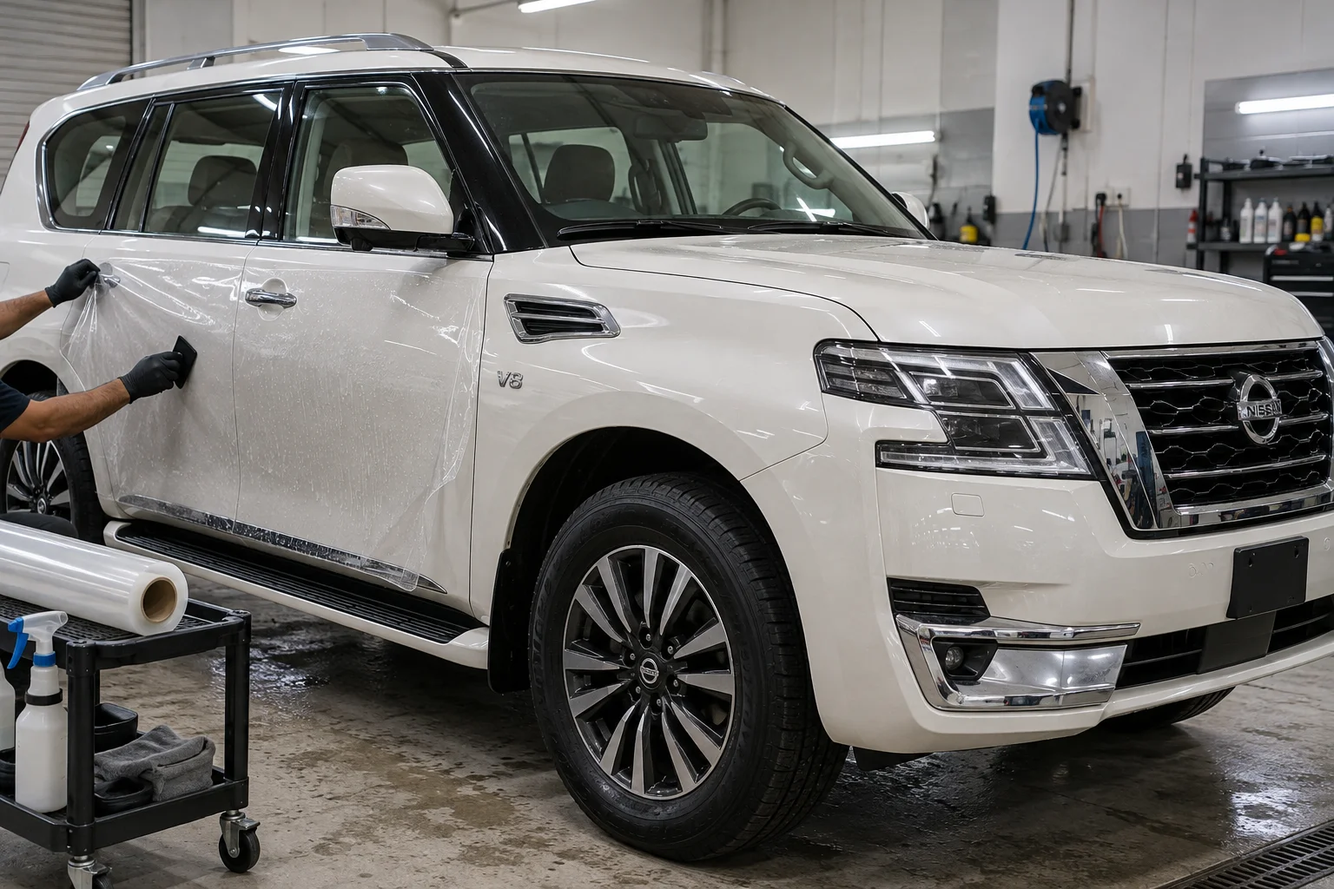
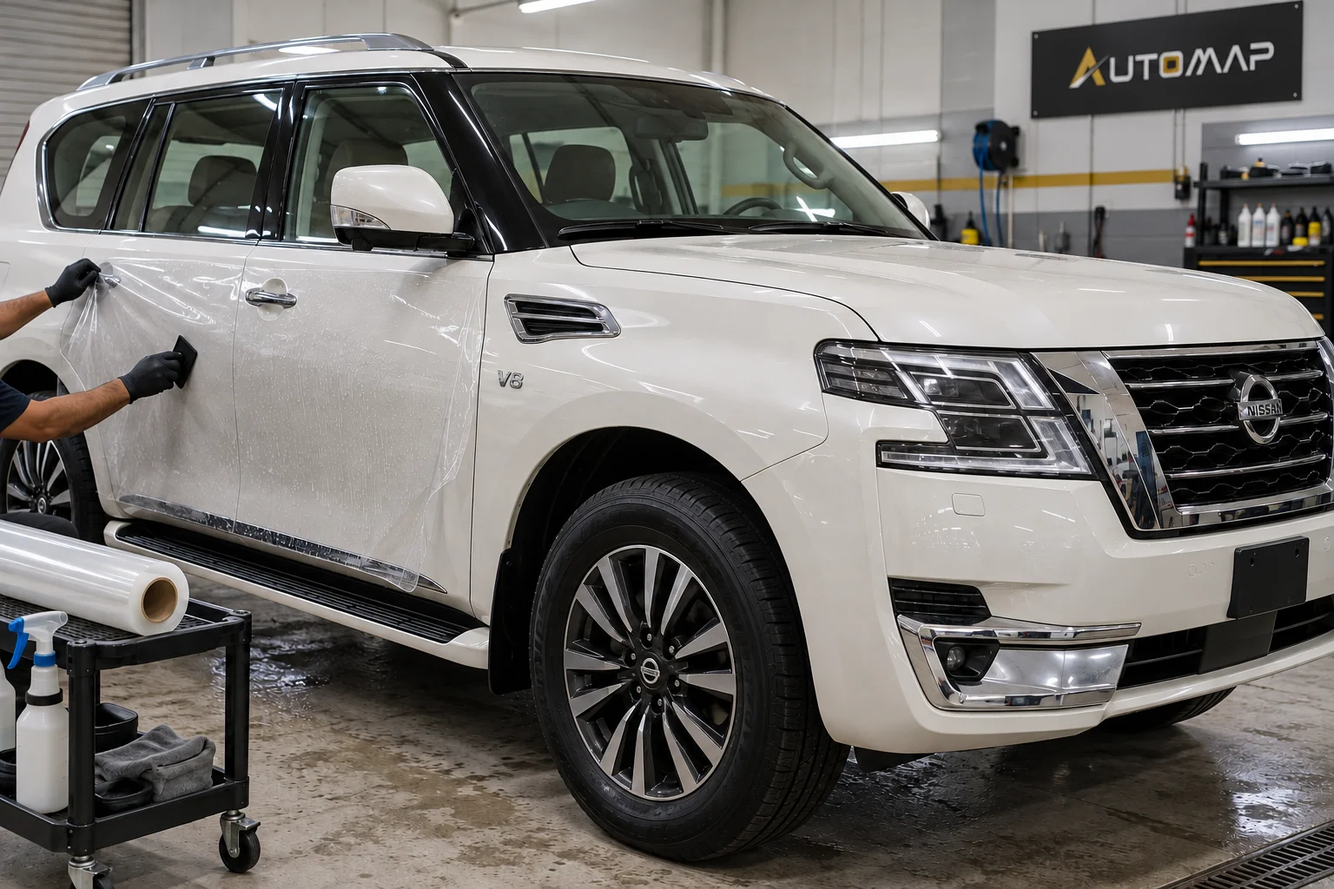
Add AUTOMAP wall branding and subtle gold details to approved service images

diff --git a/index.html b/index.html
@@ -1,7 +1,7 @@
 <!doctype html>
-<html lang="ar" dir="rtl"><head><meta charset="utf-8"><meta name="viewport" content="width=device-width, initial-scale=1"><meta name="theme-color" content="#090909"><meta name="robots" content="noindex, nofollow"><title>AUTOMAP | أوتو ماب — معاينة</title><link rel="preconnect" href="https://fonts.googleapis.com"><link rel="preconnect" href="https://fonts.gstatic.com" crossorigin><link href="https://fonts.googleapis.com/css2?family=Cairo:wght@500;600;700;800&family=IBM+Plex+Sans+Arabic:wght@400;500;600&display=swap" rel="stylesheet"><link rel="stylesheet" href="style.css?v=5982e8131b6d"><script src="script.js" defer></script></head>
+<html lang="ar" dir="rtl"><head><meta charset="utf-8"><meta name="viewport" content="width=device-width, initial-scale=1"><meta name="theme-color" content="#090909"><meta name="robots" content="noindex, nofollow"><title>AUTOMAP | أوتو ماب — معاينة</title><link rel="preconnect" href="https://fonts.googleapis.com"><link rel="preconnect" href="https://fonts.gstatic.com" crossorigin><link href="https://fonts.googleapis.com/css2?family=Cairo:wght@500;600;700;800&family=IBM+Plex+Sans+Arabic:wght@400;500;600&display=swap" rel="stylesheet"><link rel="stylesheet" href="style.css?v=60317a9239ca"><script src="script.js" defer></script></head>
 <body><a class="skip" href="#main">انتقل إلى المحتوى</a><header class="header"><div class="container nav"><a href="#home" aria-label="أوتو ماب — الرئيسية"><span class="logo"><img src="images/automap-logo.jpeg" alt="AUTOMAP — أوتو ماب" width="1320" height="439"></span></a><nav aria-label="القائمة الرئيسية"><a href="#branches">فروعنا</a><a href="#packages">الباقات</a></nav><a class="nav-cta" href="https://wa.me/966543229006" target="_blank" rel="noopener noreferrer">تواصل معنا <svg width="19" height="19" fill="currentColor" class="icon icon-whatsapp" viewBox="0 0 24 24" aria-hidden="true"><path d="M20.4 3.6A11.8 11.8 0 0 0 1.9 17.8L.3 23.7l6-1.6A11.8 11.8 0 0 0 20.4 3.6ZM12 21a9.1 9.1 0 0 1-4.7-1.3l-.3-.2-3.6 1 1-3.5-.2-.4A9.2 9.2 0 1 1 12 21Zm5.1-6.9c-.3-.2-1.7-.8-1.9-.9-.3-.1-.5-.2-.7.2l-.9 1c-.2.2-.3.2-.6.1a7.6 7.6 0 0 1-3.7-3.2c-.3-.5.3-.5.8-1.5.1-.2 0-.4 0-.5l-.9-2.1c-.2-.5-.4-.4-.6-.4h-.5c-.2 0-.5.1-.7.3-.8.8-1.2 1.7-.9 2.8.5 2.5 4.4 6.2 7.1 6.9 1 .3 2.1.2 2.9-.5.4-.4.6-1.2.6-1.6 0-.2-.2-.3-.5-.4Z"/></svg></a></div></header>
-<main id="main"><section class="hero" id="home"><div class="container hero-grid"><div class="hero-copy"><p class="eyebrow"><span></span> AUTOMAP · أوتو ماب</p><h1>العناية الاحترافية<br>بسيارتك في <em>4 فروع</em></h1><p class="hero-description">من العازل الحراري إلى الحماية والنانو سيراميك.<br>اختر العناية التي تناسب سيارتك، في أقرب فرع لك.</p><div class="hero-actions"><a class="button primary" href="https://wa.me/966543229006" target="_blank" rel="noopener noreferrer">تواصل عبر واتساب <svg width="19" height="19" fill="currentColor" class="icon icon-whatsapp" viewBox="0 0 24 24" aria-hidden="true"><path d="M20.4 3.6A11.8 11.8 0 0 0 1.9 17.8L.3 23.7l6-1.6A11.8 11.8 0 0 0 20.4 3.6ZM12 21a9.1 9.1 0 0 1-4.7-1.3l-.3-.2-3.6 1 1-3.5-.2-.4A9.2 9.2 0 1 1 12 21Zm5.1-6.9c-.3-.2-1.7-.8-1.9-.9-.3-.1-.5-.2-.7.2l-.9 1c-.2.2-.3.2-.6.1a7.6 7.6 0 0 1-3.7-3.2c-.3-.5.3-.5.8-1.5.1-.2 0-.4 0-.5l-.9-2.1c-.2-.5-.4-.4-.6-.4h-.5c-.2 0-.5.1-.7.3-.8.8-1.2 1.7-.9 2.8.5 2.5 4.4 6.2 7.1 6.9 1 .3 2.1.2 2.9-.5.4-.4.6-1.2.6-1.6 0-.2-.2-.3-.5-.4Z"/></svg></a><a class="text-link" href="#packages">اكتشف الباقات <svg width="19" height="19" class="icon icon-down " viewBox="0 0 24 24" fill="none" stroke="currentColor" stroke-width="1.6" stroke-linecap="round" stroke-linejoin="round" aria-hidden="true" focusable="false"><path d="M12 4v16m-7-7 7 7 7-7"/></svg></a></div><div class="hero-location">الهفوف <span>·</span> الطرف <span>·</span> بقيق <span>·</span> الدمام</div></div><div class="hero-visual"><img src="images/diamond.webp?v=3b9052f499" alt="تركيب فيلم حماية على هيكل نيسان باترول" width="1536" height="1024" fetchpriority="high"><div class="visual-caption"><span>AUTOMAP CAR CARE</span><span>عناية تليق بسيارتك</span></div></div></div><div class="container hero-bottom"><span>العناية تبدأ من التفاصيل.</span><a href="#branches">اعثر على أقرب فرع <svg width="19" height="19" class="icon icon-down " viewBox="0 0 24 24" fill="none" stroke="currentColor" stroke-width="1.6" stroke-linecap="round" stroke-linejoin="round" aria-hidden="true" focusable="false"><path d="M12 4v16m-7-7 7 7 7-7"/></svg></a></div></section>
+<main id="main"><section class="hero" id="home"><div class="container hero-grid"><div class="hero-copy"><p class="eyebrow"><span></span> AUTOMAP · أوتو ماب</p><h1>العناية الاحترافية<br>بسيارتك في <em>4 فروع</em></h1><p class="hero-description">من العازل الحراري إلى الحماية والنانو سيراميك.<br>اختر العناية التي تناسب سيارتك، في أقرب فرع لك.</p><div class="hero-actions"><a class="button primary" href="https://wa.me/966543229006" target="_blank" rel="noopener noreferrer">تواصل عبر واتساب <svg width="19" height="19" fill="currentColor" class="icon icon-whatsapp" viewBox="0 0 24 24" aria-hidden="true"><path d="M20.4 3.6A11.8 11.8 0 0 0 1.9 17.8L.3 23.7l6-1.6A11.8 11.8 0 0 0 20.4 3.6ZM12 21a9.1 9.1 0 0 1-4.7-1.3l-.3-.2-3.6 1 1-3.5-.2-.4A9.2 9.2 0 1 1 12 21Zm5.1-6.9c-.3-.2-1.7-.8-1.9-.9-.3-.1-.5-.2-.7.2l-.9 1c-.2.2-.3.2-.6.1a7.6 7.6 0 0 1-3.7-3.2c-.3-.5.3-.5.8-1.5.1-.2 0-.4 0-.5l-.9-2.1c-.2-.5-.4-.4-.6-.4h-.5c-.2 0-.5.1-.7.3-.8.8-1.2 1.7-.9 2.8.5 2.5 4.4 6.2 7.1 6.9 1 .3 2.1.2 2.9-.5.4-.4.6-1.2.6-1.6 0-.2-.2-.3-.5-.4Z"/></svg></a><a class="text-link" href="#packages">اكتشف الباقات <svg width="19" height="19" class="icon icon-down " viewBox="0 0 24 24" fill="none" stroke="currentColor" stroke-width="1.6" stroke-linecap="round" stroke-linejoin="round" aria-hidden="true" focusable="false"><path d="M12 4v16m-7-7 7 7 7-7"/></svg></a></div><div class="hero-location">الهفوف <span>·</span> الطرف <span>·</span> بقيق <span>·</span> الدمام</div></div><div class="hero-visual"><img src="images/diamond.webp?v=4a89984d4f" alt="تركيب فيلم حماية على هيكل نيسان باترول" width="1536" height="1024" fetchpriority="high"><div class="visual-caption"><span>AUTOMAP CAR CARE</span><span>عناية تليق بسيارتك</span></div></div></div><div class="container hero-bottom"><span>العناية تبدأ من التفاصيل.</span><a href="#branches">اعثر على أقرب فرع <svg width="19" height="19" class="icon icon-down " viewBox="0 0 24 24" fill="none" stroke="currentColor" stroke-width="1.6" stroke-linecap="round" stroke-linejoin="round" aria-hidden="true" focusable="false"><path d="M12 4v16m-7-7 7 7 7-7"/></svg></a></div></section>
 <section class="section branches-section" id="branches"><div class="container"><div class="section-heading"><div><p class="eyebrow">01 / فروعنا</p><h2>أقرب إليك.<br><span>أينما كانت وجهتك.</span></h2></div><p>أربعة فروع في المنطقة الشرقية.<br>اختر فرعك وتواصل معنا مباشرة.</p></div><div class="branches-grid"><article class="branch">
  <div class="branch-top"><span class="branch-icon"><svg width="19" height="19" class="icon icon-pin " viewBox="0 0 24 24" fill="none" stroke="currentColor" stroke-width="1.6" stroke-linecap="round" stroke-linejoin="round" aria-hidden="true" focusable="false"><path d="M20 10c0 6-8 12-8 12S4 16 4 10a8 8 0 1 1 16 0Z"/><circle cx="12" cy="10" r="3"/></svg></span><span class="branch-index">01 / AUTOMAP</span></div>
  <h3>فرع الهفوف</h3><span class="branch-divider" aria-hidden="true"></span>
@@ -27,6 +27,6 @@
  <div class="branch-actions"><a class="phone" href="tel:+966543229006" aria-label="اتصل بـفرع الدمام على 0543229006"><span class="contact-icon"><svg width="19" height="19" class="icon icon-phone " viewBox="0 0 24 24" fill="none" stroke="currentColor" stroke-width="1.6" stroke-linecap="round" stroke-linejoin="round" aria-hidden="true" focusable="false"><path d="m8 3 3 5-3 3a14 14 0 0 0 5 5l3-3 5 3v3a2 2 0 0 1-2 2C10 21 3 14 3 5a2 2 0 0 1 2-2Z"/></svg></span><span class="phone-detail"><span class="contact-label">تواصل مع الفرع</span><bdi>0543229006</bdi></span><svg width="19" height="19" class="icon icon-arrow " viewBox="0 0 24 24" fill="none" stroke="currentColor" stroke-width="1.6" stroke-linecap="round" stroke-linejoin="round" aria-hidden="true" focusable="false"><path d="M7 17 17 7M7 7h10v10"/></svg></a>
  <a class="map-link" href="https://maps.app.goo.gl/ahwhQSLnBAVMTB89A" target="_blank" rel="noopener noreferrer"><svg width="19" height="19" class="icon icon-map " viewBox="0 0 24 24" fill="none" stroke="currentColor" stroke-width="1.6" stroke-linecap="round" stroke-linejoin="round" aria-hidden="true" focusable="false"><path d="m3 5 6-2 6 2 6-2v16l-6 2-6-2-6 2V5ZM9 3v16m6-14v16"/></svg><span>الاتجاهات على الخريطة</span><svg width="19" height="19" class="icon icon-arrow " viewBox="0 0 24 24" fill="none" stroke="currentColor" stroke-width="1.6" stroke-linecap="round" stroke-linejoin="round" aria-hidden="true" focusable="false"><path d="M7 17 17 7M7 7h10v10"/></svg></a></div>
 </article></div></div></section>
-<section class="section packages-section" id="packages"><div class="container"><div class="section-heading"><div><p class="eyebrow">02 / باقات العناية</p><h2>لكل سيارة،<br><span>مستوى العناية المناسب.</span></h2></div><p>أربع باقات بخيارات واضحة.<br>من العناية الأساسية إلى حماية كامل السيارة.</p></div><div class="packages-grid"><article class="package "><div class="package-image"><img src="images/economic.webp?v=d06394e7c6" alt="تطبيق النانو سيراميك على سيارة تويوتا كامري" width="1536" height="1024" loading="lazy"><span class="package-number">01</span></div><div class="package-body"><p class="package-label">باقة الاقتصادية</p><h3><bdi>1,199</bdi> <span>ر.س</span></h3><div class="rule"></div><ul><li><svg width="13" height="13" class="icon icon-check " viewBox="0 0 24 24" fill="none" stroke="currentColor" stroke-width="1.6" stroke-linecap="round" stroke-linejoin="round" aria-hidden="true" focusable="false"><path d="m5 12 4 4L19 6"/></svg>عازل حراري</li><li><svg width="13" height="13" class="icon icon-check " viewBox="0 0 24 24" fill="none" stroke="currentColor" stroke-width="1.6" stroke-linecap="round" stroke-linejoin="round" aria-hidden="true" focusable="false"><path d="m5 12 4 4L19 6"/></svg>حماية الشمعات والكشافات</li><li><svg width="13" height="13" class="icon icon-check " viewBox="0 0 24 24" fill="none" stroke="currentColor" stroke-width="1.6" stroke-linecap="round" stroke-linejoin="round" aria-hidden="true" focusable="false"><path d="m5 12 4 4L19 6"/></svg>طبقتان نانو سيراميك خارجي</li><li><svg width="13" height="13" class="icon icon-check " viewBox="0 0 24 24" fill="none" stroke="currentColor" stroke-width="1.6" stroke-linecap="round" stroke-linejoin="round" aria-hidden="true" focusable="false"><path d="m5 12 4 4L19 6"/></svg>حماية حواف الأبواب + تحت المقابض</li><li><svg width="13" height="13" class="icon icon-check " viewBox="0 0 24 24" fill="none" stroke="currentColor" stroke-width="1.6" stroke-linecap="round" stroke-linejoin="round" aria-hidden="true" focusable="false"><path d="m5 12 4 4L19 6"/></svg>تشميع كفرات</li><li><svg width="13" height="13" class="icon icon-check " viewBox="0 0 24 24" fill="none" stroke="currentColor" stroke-width="1.6" stroke-linecap="round" stroke-linejoin="round" aria-hidden="true" focusable="false"><path d="m5 12 4 4L19 6"/></svg>حماية داخلية</li></ul><a class="button outline" href="https://wa.me/966543229006?text=%D9%85%D8%B1%D8%AD%D8%A8%D9%8B%D8%A7%20%D8%A3%D9%88%D8%AA%D9%88%20%D9%85%D8%A7%D8%A8%D8%8C%20%D8%A3%D8%B1%D8%BA%D8%A8%20%D9%81%D9%8A%20%D8%AD%D8%AC%D8%B2%20%D8%A7%D9%84%D8%A8%D8%A7%D9%82%D8%A9%20%D8%A7%D9%84%D8%A7%D9%82%D8%AA%D8%B5%D8%A7%D8%AF%D9%8A%D8%A9%20%D8%A8%D8%B3%D8%B9%D8%B1%201%2C199%20%D8%B1.%D8%B3%D8%8C%20%D9%88%D9%85%D8%B9%D8%B1%D9%81%D8%A9%20%D8%A7%D9%84%D9%81%D8%B1%D8%B9%20%D8%A7%D9%84%D9%85%D9%86%D8%A7%D8%B3%D8%A8." target="_blank" rel="noopener noreferrer">احجز الآن <svg width="19" height="19" fill="currentColor" class="icon icon-whatsapp" viewBox="0 0 24 24" aria-hidden="true"><path d="M20.4 3.6A11.8 11.8 0 0 0 1.9 17.8L.3 23.7l6-1.6A11.8 11.8 0 0 0 20.4 3.6ZM12 21a9.1 9.1 0 0 1-4.7-1.3l-.3-.2-3.6 1 1-3.5-.2-.4A9.2 9.2 0 1 1 12 21Zm5.1-6.9c-.3-.2-1.7-.8-1.9-.9-.3-.1-.5-.2-.7.2l-.9 1c-.2.2-.3.2-.6.1a7.6 7.6 0 0 1-3.7-3.2c-.3-.5.3-.5.8-1.5.1-.2 0-.4 0-.5l-.9-2.1c-.2-.5-.4-.4-.6-.4h-.5c-.2 0-.5.1-.7.3-.8.8-1.2 1.7-.9 2.8.5 2.5 4.4 6.2 7.1 6.9 1 .3 2.1.2 2.9-.5.4-.4.6-1.2.6-1.6 0-.2-.2-.3-.5-.4Z"/></svg></a></div></article><article class="package "><div class="package-image"><img src="images/silver.webp?v=a853e115fe" alt="تركيب فيلم حماية على مقدمة سيارة لكزس" width="1536" height="1024" loading="lazy"><span class="package-number">02</span></div><div class="package-body"><p class="package-label">باقة الفضية</p><h3><bdi>1,999</bdi> <span>ر.س</span></h3><div class="rule"></div><ul><li><svg width="13" height="13" class="icon icon-check " viewBox="0 0 24 24" fill="none" stroke="currentColor" stroke-width="1.6" stroke-linecap="round" stroke-linejoin="round" aria-hidden="true" focusable="false"><path d="m5 12 4 4L19 6"/></svg>حماية الواجهة (50 سم على الكبوت)</li><li><svg width="13" height="13" class="icon icon-check " viewBox="0 0 24 24" fill="none" stroke="currentColor" stroke-width="1.6" stroke-linecap="round" stroke-linejoin="round" aria-hidden="true" focusable="false"><path d="m5 12 4 4L19 6"/></svg>حماية الصدام كامل</li><li><svg width="13" height="13" class="icon icon-check " viewBox="0 0 24 24" fill="none" stroke="currentColor" stroke-width="1.6" stroke-linecap="round" stroke-linejoin="round" aria-hidden="true" focusable="false"><path d="m5 12 4 4L19 6"/></svg>حماية نصف الرفارف</li><li><svg width="13" height="13" class="icon icon-check " viewBox="0 0 24 24" fill="none" stroke="currentColor" stroke-width="1.6" stroke-linecap="round" stroke-linejoin="round" aria-hidden="true" focusable="false"><path d="m5 12 4 4L19 6"/></svg>حماية حواف الأبواب + تحت المقابض</li><li><svg width="13" height="13" class="icon icon-check " viewBox="0 0 24 24" fill="none" stroke="currentColor" stroke-width="1.6" stroke-linecap="round" stroke-linejoin="round" aria-hidden="true" focusable="false"><path d="m5 12 4 4L19 6"/></svg>حماية الشمعات والكشافات</li><li><svg width="13" height="13" class="icon icon-check " viewBox="0 0 24 24" fill="none" stroke="currentColor" stroke-width="1.6" stroke-linecap="round" stroke-linejoin="round" aria-hidden="true" focusable="false"><path d="m5 12 4 4L19 6"/></svg>عازل حراري</li><li><svg width="13" height="13" class="icon icon-check " viewBox="0 0 24 24" fill="none" stroke="currentColor" stroke-width="1.6" stroke-linecap="round" stroke-linejoin="round" aria-hidden="true" focusable="false"><path d="m5 12 4 4L19 6"/></svg>طبقتان نانو سيراميك خارجي</li><li><svg width="13" height="13" class="icon icon-check " viewBox="0 0 24 24" fill="none" stroke="currentColor" stroke-width="1.6" stroke-linecap="round" stroke-linejoin="round" aria-hidden="true" focusable="false"><path d="m5 12 4 4L19 6"/></svg>تشميع كفرات</li><li><svg width="13" height="13" class="icon icon-check " viewBox="0 0 24 24" fill="none" stroke="currentColor" stroke-width="1.6" stroke-linecap="round" stroke-linejoin="round" aria-hidden="true" focusable="false"><path d="m5 12 4 4L19 6"/></svg>حماية داخلية</li></ul><a class="button outline" href="https://wa.me/966543229006?text=%D9%85%D8%B1%D8%AD%D8%A8%D9%8B%D8%A7%20%D8%A3%D9%88%D8%AA%D9%88%20%D9%85%D8%A7%D8%A8%D8%8C%20%D8%A3%D8%B1%D8%BA%D8%A8%20%D9%81%D9%8A%20%D8%AD%D8%AC%D8%B2%20%D8%A7%D9%84%D8%A8%D8%A7%D9%82%D8%A9%20%D8%A7%D9%84%D9%81%D8%B6%D9%8A%D8%A9%20%D8%A8%D8%B3%D8%B9%D8%B1%201%2C999%20%D8%B1.%D8%B3%D8%8C%20%D9%88%D9%85%D8%B9%D8%B1%D9%81%D8%A9%20%D8%A7%D9%84%D9%81%D8%B1%D8%B9%20%D8%A7%D9%84%D9%85%D9%86%D8%A7%D8%B3%D8%A8." target="_blank" rel="noopener noreferrer">احجز الآن <svg width="19" height="19" fill="currentColor" class="icon icon-whatsapp" viewBox="0 0 24 24" aria-hidden="true"><path d="M20.4 3.6A11.8 11.8 0 0 0 1.9 17.8L.3 23.7l6-1.6A11.8 11.8 0 0 0 20.4 3.6ZM12 21a9.1 9.1 0 0 1-4.7-1.3l-.3-.2-3.6 1 1-3.5-.2-.4A9.2 9.2 0 1 1 12 21Zm5.1-6.9c-.3-.2-1.7-.8-1.9-.9-.3-.1-.5-.2-.7.2l-.9 1c-.2.2-.3.2-.6.1a7.6 7.6 0 0 1-3.7-3.2c-.3-.5.3-.5.8-1.5.1-.2 0-.4 0-.5l-.9-2.1c-.2-.5-.4-.4-.6-.4h-.5c-.2 0-.5.1-.7.3-.8.8-1.2 1.7-.9 2.8.5 2.5 4.4 6.2 7.1 6.9 1 .3 2.1.2 2.9-.5.4-.4.6-1.2.6-1.6 0-.2-.2-.3-.5-.4Z"/></svg></a></div></article><article class="package featured"><div class="package-image"><img src="images/gold.webp?v=f691413e8c" alt="تركيب فيلم حماية على كامل كبوت تويوتا لاندكروزر" width="1536" height="1024" loading="lazy"><span class="badge">الأكثر طلبًا</span><span class="package-number">03</span></div><div class="package-body"><p class="package-label">باقة الذهبية</p><h3><bdi>2,999</bdi> <span>ر.س</span></h3><div class="rule"></div><ul><li><svg width="13" height="13" class="icon icon-check " viewBox="0 0 24 24" fill="none" stroke="currentColor" stroke-width="1.6" stroke-linecap="round" stroke-linejoin="round" aria-hidden="true" focusable="false"><path d="m5 12 4 4L19 6"/></svg>حماية الكبوت كامل</li><li><svg width="13" height="13" class="icon icon-check " viewBox="0 0 24 24" fill="none" stroke="currentColor" stroke-width="1.6" stroke-linecap="round" stroke-linejoin="round" aria-hidden="true" focusable="false"><path d="m5 12 4 4L19 6"/></svg>حماية الصدام كامل</li><li><svg width="13" height="13" class="icon icon-check " viewBox="0 0 24 24" fill="none" stroke="currentColor" stroke-width="1.6" stroke-linecap="round" stroke-linejoin="round" aria-hidden="true" focusable="false"><path d="m5 12 4 4L19 6"/></svg>حماية الرفارف كامل</li><li><svg width="13" height="13" class="icon icon-check " viewBox="0 0 24 24" fill="none" stroke="currentColor" stroke-width="1.6" stroke-linecap="round" stroke-linejoin="round" aria-hidden="true" focusable="false"><path d="m5 12 4 4L19 6"/></svg>حماية حواف الأبواب + تحت المقابض</li><li><svg width="13" height="13" class="icon icon-check " viewBox="0 0 24 24" fill="none" stroke="currentColor" stroke-width="1.6" stroke-linecap="round" stroke-linejoin="round" aria-hidden="true" focusable="false"><path d="m5 12 4 4L19 6"/></svg>حماية الشمعات والكشافات</li><li><svg width="13" height="13" class="icon icon-check " viewBox="0 0 24 24" fill="none" stroke="currentColor" stroke-width="1.6" stroke-linecap="round" stroke-linejoin="round" aria-hidden="true" focusable="false"><path d="m5 12 4 4L19 6"/></svg>عازل حراري</li><li><svg width="13" height="13" class="icon icon-check " viewBox="0 0 24 24" fill="none" stroke="currentColor" stroke-width="1.6" stroke-linecap="round" stroke-linejoin="round" aria-hidden="true" focusable="false"><path d="m5 12 4 4L19 6"/></svg>طبقتان نانو سيراميك خارجي</li><li><svg width="13" height="13" class="icon icon-check " viewBox="0 0 24 24" fill="none" stroke="currentColor" stroke-width="1.6" stroke-linecap="round" stroke-linejoin="round" aria-hidden="true" focusable="false"><path d="m5 12 4 4L19 6"/></svg>تشميع كفرات</li><li><svg width="13" height="13" class="icon icon-check " viewBox="0 0 24 24" fill="none" stroke="currentColor" stroke-width="1.6" stroke-linecap="round" stroke-linejoin="round" aria-hidden="true" focusable="false"><path d="m5 12 4 4L19 6"/></svg>حماية داخلية</li></ul><a class="button primary" href="https://wa.me/966543229006?text=%D9%85%D8%B1%D8%AD%D8%A8%D9%8B%D8%A7%20%D8%A3%D9%88%D8%AA%D9%88%20%D9%85%D8%A7%D8%A8%D8%8C%20%D8%A3%D8%B1%D8%BA%D8%A8%20%D9%81%D9%8A%20%D8%AD%D8%AC%D8%B2%20%D8%A7%D9%84%D8%A8%D8%A7%D9%82%D8%A9%20%D8%A7%D9%84%D8%B0%D9%87%D8%A8%D9%8A%D8%A9%20%D8%A8%D8%B3%D8%B9%D8%B1%202%2C999%20%D8%B1.%D8%B3%D8%8C%20%D9%88%D9%85%D8%B9%D8%B1%D9%81%D8%A9%20%D8%A7%D9%84%D9%81%D8%B1%D8%B9%20%D8%A7%D9%84%D9%85%D9%86%D8%A7%D8%B3%D8%A8." target="_blank" rel="noopener noreferrer">احجز الآن <svg width="19" height="19" fill="currentColor" class="icon icon-whatsapp" viewBox="0 0 24 24" aria-hidden="true"><path d="M20.4 3.6A11.8 11.8 0 0 0 1.9 17.8L.3 23.7l6-1.6A11.8 11.8 0 0 0 20.4 3.6ZM12 21a9.1 9.1 0 0 1-4.7-1.3l-.3-.2-3.6 1 1-3.5-.2-.4A9.2 9.2 0 1 1 12 21Zm5.1-6.9c-.3-.2-1.7-.8-1.9-.9-.3-.1-.5-.2-.7.2l-.9 1c-.2.2-.3.2-.6.1a7.6 7.6 0 0 1-3.7-3.2c-.3-.5.3-.5.8-1.5.1-.2 0-.4 0-.5l-.9-2.1c-.2-.5-.4-.4-.6-.4h-.5c-.2 0-.5.1-.7.3-.8.8-1.2 1.7-.9 2.8.5 2.5 4.4 6.2 7.1 6.9 1 .3 2.1.2 2.9-.5.4-.4.6-1.2.6-1.6 0-.2-.2-.3-.5-.4Z"/></svg></a></div></article><article class="package "><div class="package-image"><img src="images/diamond.webp?v=3b9052f499" alt="تركيب فيلم حماية على هيكل نيسان باترول" width="1536" height="1024" loading="lazy"><span class="badge vip">VIP</span><span class="package-number">04</span></div><div class="package-body"><p class="package-label">باقة الماسية</p><h3><bdi>7,500</bdi> <span>ر.س</span></h3><div class="rule"></div><ul><li><svg width="13" height="13" class="icon icon-check " viewBox="0 0 24 24" fill="none" stroke="currentColor" stroke-width="1.6" stroke-linecap="round" stroke-linejoin="round" aria-hidden="true" focusable="false"><path d="m5 12 4 4L19 6"/></svg>حماية كامل السيارة</li><li><svg width="13" height="13" class="icon icon-check " viewBox="0 0 24 24" fill="none" stroke="currentColor" stroke-width="1.6" stroke-linecap="round" stroke-linejoin="round" aria-hidden="true" focusable="false"><path d="m5 12 4 4L19 6"/></svg>عازل حراري</li><li><svg width="13" height="13" class="icon icon-check " viewBox="0 0 24 24" fill="none" stroke="currentColor" stroke-width="1.6" stroke-linecap="round" stroke-linejoin="round" aria-hidden="true" focusable="false"><path d="m5 12 4 4L19 6"/></svg>نانو جنوط / تشميع كفرات</li><li><svg width="13" height="13" class="icon icon-check " viewBox="0 0 24 24" fill="none" stroke="currentColor" stroke-width="1.6" stroke-linecap="round" stroke-linejoin="round" aria-hidden="true" focusable="false"><path d="m5 12 4 4L19 6"/></svg>حماية داخلية</li></ul><a class="button outline" href="https://wa.me/966543229006?text=%D9%85%D8%B1%D8%AD%D8%A8%D9%8B%D8%A7%20%D8%A3%D9%88%D8%AA%D9%88%20%D9%85%D8%A7%D8%A8%D8%8C%20%D8%A3%D8%B1%D8%BA%D8%A8%20%D9%81%D9%8A%20%D8%AD%D8%AC%D8%B2%20%D8%A7%D9%84%D8%A8%D8%A7%D9%82%D8%A9%20%D8%A7%D9%84%D9%85%D8%A7%D8%B3%D9%8A%D8%A9%20%D8%A8%D8%B3%D8%B9%D8%B1%207%2C500%20%D8%B1.%D8%B3%D8%8C%20%D9%88%D9%85%D8%B9%D8%B1%D9%81%D8%A9%20%D8%A7%D9%84%D9%81%D8%B1%D8%B9%20%D8%A7%D9%84%D9%85%D9%86%D8%A7%D8%B3%D8%A8." target="_blank" rel="noopener noreferrer">احجز الآن <svg width="19" height="19" fill="currentColor" class="icon icon-whatsapp" viewBox="0 0 24 24" aria-hidden="true"><path d="M20.4 3.6A11.8 11.8 0 0 0 1.9 17.8L.3 23.7l6-1.6A11.8 11.8 0 0 0 20.4 3.6ZM12 21a9.1 9.1 0 0 1-4.7-1.3l-.3-.2-3.6 1 1-3.5-.2-.4A9.2 9.2 0 1 1 12 21Zm5.1-6.9c-.3-.2-1.7-.8-1.9-.9-.3-.1-.5-.2-.7.2l-.9 1c-.2.2-.3.2-.6.1a7.6 7.6 0 0 1-3.7-3.2c-.3-.5.3-.5.8-1.5.1-.2 0-.4 0-.5l-.9-2.1c-.2-.5-.4-.4-.6-.4h-.5c-.2 0-.5.1-.7.3-.8.8-1.2 1.7-.9 2.8.5 2.5 4.4 6.2 7.1 6.9 1 .3 2.1.2 2.9-.5.4-.4.6-1.2.6-1.6 0-.2-.2-.3-.5-.4Z"/></svg></a></div></article></div></div></section></main>
+<section class="section packages-section" id="packages"><div class="container"><div class="section-heading"><div><p class="eyebrow">02 / باقات العناية</p><h2>لكل سيارة،<br><span>مستوى العناية المناسب.</span></h2></div><p>أربع باقات بخيارات واضحة.<br>من العناية الأساسية إلى حماية كامل السيارة.</p></div><div class="packages-grid"><article class="package "><div class="package-image"><img src="images/economic.webp?v=273bea5d25" alt="تطبيق النانو سيراميك على سيارة تويوتا كامري" width="1536" height="1024" loading="lazy"><span class="package-number">01</span></div><div class="package-body"><p class="package-label">باقة الاقتصادية</p><h3><bdi>1,199</bdi> <span>ر.س</span></h3><div class="rule"></div><ul><li><svg width="13" height="13" class="icon icon-check " viewBox="0 0 24 24" fill="none" stroke="currentColor" stroke-width="1.6" stroke-linecap="round" stroke-linejoin="round" aria-hidden="true" focusable="false"><path d="m5 12 4 4L19 6"/></svg>عازل حراري</li><li><svg width="13" height="13" class="icon icon-check " viewBox="0 0 24 24" fill="none" stroke="currentColor" stroke-width="1.6" stroke-linecap="round" stroke-linejoin="round" aria-hidden="true" focusable="false"><path d="m5 12 4 4L19 6"/></svg>حماية الشمعات والكشافات</li><li><svg width="13" height="13" class="icon icon-check " viewBox="0 0 24 24" fill="none" stroke="currentColor" stroke-width="1.6" stroke-linecap="round" stroke-linejoin="round" aria-hidden="true" focusable="false"><path d="m5 12 4 4L19 6"/></svg>طبقتان نانو سيراميك خارجي</li><li><svg width="13" height="13" class="icon icon-check " viewBox="0 0 24 24" fill="none" stroke="currentColor" stroke-width="1.6" stroke-linecap="round" stroke-linejoin="round" aria-hidden="true" focusable="false"><path d="m5 12 4 4L19 6"/></svg>حماية حواف الأبواب + تحت المقابض</li><li><svg width="13" height="13" class="icon icon-check " viewBox="0 0 24 24" fill="none" stroke="currentColor" stroke-width="1.6" stroke-linecap="round" stroke-linejoin="round" aria-hidden="true" focusable="false"><path d="m5 12 4 4L19 6"/></svg>تشميع كفرات</li><li><svg width="13" height="13" class="icon icon-check " viewBox="0 0 24 24" fill="none" stroke="currentColor" stroke-width="1.6" stroke-linecap="round" stroke-linejoin="round" aria-hidden="true" focusable="false"><path d="m5 12 4 4L19 6"/></svg>حماية داخلية</li></ul><a class="button outline" href="https://wa.me/966543229006?text=%D9%85%D8%B1%D8%AD%D8%A8%D9%8B%D8%A7%20%D8%A3%D9%88%D8%AA%D9%88%20%D9%85%D8%A7%D8%A8%D8%8C%20%D8%A3%D8%B1%D8%BA%D8%A8%20%D9%81%D9%8A%20%D8%AD%D8%AC%D8%B2%20%D8%A7%D9%84%D8%A8%D8%A7%D9%82%D8%A9%20%D8%A7%D9%84%D8%A7%D9%82%D8%AA%D8%B5%D8%A7%D8%AF%D9%8A%D8%A9%20%D8%A8%D8%B3%D8%B9%D8%B1%201%2C199%20%D8%B1.%D8%B3%D8%8C%20%D9%88%D9%85%D8%B9%D8%B1%D9%81%D8%A9%20%D8%A7%D9%84%D9%81%D8%B1%D8%B9%20%D8%A7%D9%84%D9%85%D9%86%D8%A7%D8%B3%D8%A8." target="_blank" rel="noopener noreferrer">احجز الآن <svg width="19" height="19" fill="currentColor" class="icon icon-whatsapp" viewBox="0 0 24 24" aria-hidden="true"><path d="M20.4 3.6A11.8 11.8 0 0 0 1.9 17.8L.3 23.7l6-1.6A11.8 11.8 0 0 0 20.4 3.6ZM12 21a9.1 9.1 0 0 1-4.7-1.3l-.3-.2-3.6 1 1-3.5-.2-.4A9.2 9.2 0 1 1 12 21Zm5.1-6.9c-.3-.2-1.7-.8-1.9-.9-.3-.1-.5-.2-.7.2l-.9 1c-.2.2-.3.2-.6.1a7.6 7.6 0 0 1-3.7-3.2c-.3-.5.3-.5.8-1.5.1-.2 0-.4 0-.5l-.9-2.1c-.2-.5-.4-.4-.6-.4h-.5c-.2 0-.5.1-.7.3-.8.8-1.2 1.7-.9 2.8.5 2.5 4.4 6.2 7.1 6.9 1 .3 2.1.2 2.9-.5.4-.4.6-1.2.6-1.6 0-.2-.2-.3-.5-.4Z"/></svg></a></div></article><article class="package "><div class="package-image"><img src="images/silver.webp?v=1d5caa7d7a" alt="تركيب فيلم حماية على مقدمة سيارة لكزس" width="1536" height="1024" loading="lazy"><span class="package-number">02</span></div><div class="package-body"><p class="package-label">باقة الفضية</p><h3><bdi>1,999</bdi> <span>ر.س</span></h3><div class="rule"></div><ul><li><svg width="13" height="13" class="icon icon-check " viewBox="0 0 24 24" fill="none" stroke="currentColor" stroke-width="1.6" stroke-linecap="round" stroke-linejoin="round" aria-hidden="true" focusable="false"><path d="m5 12 4 4L19 6"/></svg>حماية الواجهة (50 سم على الكبوت)</li><li><svg width="13" height="13" class="icon icon-check " viewBox="0 0 24 24" fill="none" stroke="currentColor" stroke-width="1.6" stroke-linecap="round" stroke-linejoin="round" aria-hidden="true" focusable="false"><path d="m5 12 4 4L19 6"/></svg>حماية الصدام كامل</li><li><svg width="13" height="13" class="icon icon-check " viewBox="0 0 24 24" fill="none" stroke="currentColor" stroke-width="1.6" stroke-linecap="round" stroke-linejoin="round" aria-hidden="true" focusable="false"><path d="m5 12 4 4L19 6"/></svg>حماية نصف الرفارف</li><li><svg width="13" height="13" class="icon icon-check " viewBox="0 0 24 24" fill="none" stroke="currentColor" stroke-width="1.6" stroke-linecap="round" stroke-linejoin="round" aria-hidden="true" focusable="false"><path d="m5 12 4 4L19 6"/></svg>حماية حواف الأبواب + تحت المقابض</li><li><svg width="13" height="13" class="icon icon-check " viewBox="0 0 24 24" fill="none" stroke="currentColor" stroke-width="1.6" stroke-linecap="round" stroke-linejoin="round" aria-hidden="true" focusable="false"><path d="m5 12 4 4L19 6"/></svg>حماية الشمعات والكشافات</li><li><svg width="13" height="13" class="icon icon-check " viewBox="0 0 24 24" fill="none" stroke="currentColor" stroke-width="1.6" stroke-linecap="round" stroke-linejoin="round" aria-hidden="true" focusable="false"><path d="m5 12 4 4L19 6"/></svg>عازل حراري</li><li><svg width="13" height="13" class="icon icon-check " viewBox="0 0 24 24" fill="none" stroke="currentColor" stroke-width="1.6" stroke-linecap="round" stroke-linejoin="round" aria-hidden="true" focusable="false"><path d="m5 12 4 4L19 6"/></svg>طبقتان نانو سيراميك خارجي</li><li><svg width="13" height="13" class="icon icon-check " viewBox="0 0 24 24" fill="none" stroke="currentColor" stroke-width="1.6" stroke-linecap="round" stroke-linejoin="round" aria-hidden="true" focusable="false"><path d="m5 12 4 4L19 6"/></svg>تشميع كفرات</li><li><svg width="13" height="13" class="icon icon-check " viewBox="0 0 24 24" fill="none" stroke="currentColor" stroke-width="1.6" stroke-linecap="round" stroke-linejoin="round" aria-hidden="true" focusable="false"><path d="m5 12 4 4L19 6"/></svg>حماية داخلية</li></ul><a class="button outline" href="https://wa.me/966543229006?text=%D9%85%D8%B1%D8%AD%D8%A8%D9%8B%D8%A7%20%D8%A3%D9%88%D8%AA%D9%88%20%D9%85%D8%A7%D8%A8%D8%8C%20%D8%A3%D8%B1%D8%BA%D8%A8%20%D9%81%D9%8A%20%D8%AD%D8%AC%D8%B2%20%D8%A7%D9%84%D8%A8%D8%A7%D9%82%D8%A9%20%D8%A7%D9%84%D9%81%D8%B6%D9%8A%D8%A9%20%D8%A8%D8%B3%D8%B9%D8%B1%201%2C999%20%D8%B1.%D8%B3%D8%8C%20%D9%88%D9%85%D8%B9%D8%B1%D9%81%D8%A9%20%D8%A7%D9%84%D9%81%D8%B1%D8%B9%20%D8%A7%D9%84%D9%85%D9%86%D8%A7%D8%B3%D8%A8." target="_blank" rel="noopener noreferrer">احجز الآن <svg width="19" height="19" fill="currentColor" class="icon icon-whatsapp" viewBox="0 0 24 24" aria-hidden="true"><path d="M20.4 3.6A11.8 11.8 0 0 0 1.9 17.8L.3 23.7l6-1.6A11.8 11.8 0 0 0 20.4 3.6ZM12 21a9.1 9.1 0 0 1-4.7-1.3l-.3-.2-3.6 1 1-3.5-.2-.4A9.2 9.2 0 1 1 12 21Zm5.1-6.9c-.3-.2-1.7-.8-1.9-.9-.3-.1-.5-.2-.7.2l-.9 1c-.2.2-.3.2-.6.1a7.6 7.6 0 0 1-3.7-3.2c-.3-.5.3-.5.8-1.5.1-.2 0-.4 0-.5l-.9-2.1c-.2-.5-.4-.4-.6-.4h-.5c-.2 0-.5.1-.7.3-.8.8-1.2 1.7-.9 2.8.5 2.5 4.4 6.2 7.1 6.9 1 .3 2.1.2 2.9-.5.4-.4.6-1.2.6-1.6 0-.2-.2-.3-.5-.4Z"/></svg></a></div></article><article class="package featured"><div class="package-image"><img src="images/gold.webp?v=79238936a1" alt="تركيب فيلم حماية على كامل كبوت تويوتا لاندكروزر" width="1536" height="1024" loading="lazy"><span class="badge">الأكثر طلبًا</span><span class="package-number">03</span></div><div class="package-body"><p class="package-label">باقة الذهبية</p><h3><bdi>2,999</bdi> <span>ر.س</span></h3><div class="rule"></div><ul><li><svg width="13" height="13" class="icon icon-check " viewBox="0 0 24 24" fill="none" stroke="currentColor" stroke-width="1.6" stroke-linecap="round" stroke-linejoin="round" aria-hidden="true" focusable="false"><path d="m5 12 4 4L19 6"/></svg>حماية الكبوت كامل</li><li><svg width="13" height="13" class="icon icon-check " viewBox="0 0 24 24" fill="none" stroke="currentColor" stroke-width="1.6" stroke-linecap="round" stroke-linejoin="round" aria-hidden="true" focusable="false"><path d="m5 12 4 4L19 6"/></svg>حماية الصدام كامل</li><li><svg width="13" height="13" class="icon icon-check " viewBox="0 0 24 24" fill="none" stroke="currentColor" stroke-width="1.6" stroke-linecap="round" stroke-linejoin="round" aria-hidden="true" focusable="false"><path d="m5 12 4 4L19 6"/></svg>حماية الرفارف كامل</li><li><svg width="13" height="13" class="icon icon-check " viewBox="0 0 24 24" fill="none" stroke="currentColor" stroke-width="1.6" stroke-linecap="round" stroke-linejoin="round" aria-hidden="true" focusable="false"><path d="m5 12 4 4L19 6"/></svg>حماية حواف الأبواب + تحت المقابض</li><li><svg width="13" height="13" class="icon icon-check " viewBox="0 0 24 24" fill="none" stroke="currentColor" stroke-width="1.6" stroke-linecap="round" stroke-linejoin="round" aria-hidden="true" focusable="false"><path d="m5 12 4 4L19 6"/></svg>حماية الشمعات والكشافات</li><li><svg width="13" height="13" class="icon icon-check " viewBox="0 0 24 24" fill="none" stroke="currentColor" stroke-width="1.6" stroke-linecap="round" stroke-linejoin="round" aria-hidden="true" focusable="false"><path d="m5 12 4 4L19 6"/></svg>عازل حراري</li><li><svg width="13" height="13" class="icon icon-check " viewBox="0 0 24 24" fill="none" stroke="currentColor" stroke-width="1.6" stroke-linecap="round" stroke-linejoin="round" aria-hidden="true" focusable="false"><path d="m5 12 4 4L19 6"/></svg>طبقتان نانو سيراميك خارجي</li><li><svg width="13" height="13" class="icon icon-check " viewBox="0 0 24 24" fill="none" stroke="currentColor" stroke-width="1.6" stroke-linecap="round" stroke-linejoin="round" aria-hidden="true" focusable="false"><path d="m5 12 4 4L19 6"/></svg>تشميع كفرات</li><li><svg width="13" height="13" class="icon icon-check " viewBox="0 0 24 24" fill="none" stroke="currentColor" stroke-width="1.6" stroke-linecap="round" stroke-linejoin="round" aria-hidden="true" focusable="false"><path d="m5 12 4 4L19 6"/></svg>حماية داخلية</li></ul><a class="button primary" href="https://wa.me/966543229006?text=%D9%85%D8%B1%D8%AD%D8%A8%D9%8B%D8%A7%20%D8%A3%D9%88%D8%AA%D9%88%20%D9%85%D8%A7%D8%A8%D8%8C%20%D8%A3%D8%B1%D8%BA%D8%A8%20%D9%81%D9%8A%20%D8%AD%D8%AC%D8%B2%20%D8%A7%D9%84%D8%A8%D8%A7%D9%82%D8%A9%20%D8%A7%D9%84%D8%B0%D9%87%D8%A8%D9%8A%D8%A9%20%D8%A8%D8%B3%D8%B9%D8%B1%202%2C999%20%D8%B1.%D8%B3%D8%8C%20%D9%88%D9%85%D8%B9%D8%B1%D9%81%D8%A9%20%D8%A7%D9%84%D9%81%D8%B1%D8%B9%20%D8%A7%D9%84%D9%85%D9%86%D8%A7%D8%B3%D8%A8." target="_blank" rel="noopener noreferrer">احجز الآن <svg width="19" height="19" fill="currentColor" class="icon icon-whatsapp" viewBox="0 0 24 24" aria-hidden="true"><path d="M20.4 3.6A11.8 11.8 0 0 0 1.9 17.8L.3 23.7l6-1.6A11.8 11.8 0 0 0 20.4 3.6ZM12 21a9.1 9.1 0 0 1-4.7-1.3l-.3-.2-3.6 1 1-3.5-.2-.4A9.2 9.2 0 1 1 12 21Zm5.1-6.9c-.3-.2-1.7-.8-1.9-.9-.3-.1-.5-.2-.7.2l-.9 1c-.2.2-.3.2-.6.1a7.6 7.6 0 0 1-3.7-3.2c-.3-.5.3-.5.8-1.5.1-.2 0-.4 0-.5l-.9-2.1c-.2-.5-.4-.4-.6-.4h-.5c-.2 0-.5.1-.7.3-.8.8-1.2 1.7-.9 2.8.5 2.5 4.4 6.2 7.1 6.9 1 .3 2.1.2 2.9-.5.4-.4.6-1.2.6-1.6 0-.2-.2-.3-.5-.4Z"/></svg></a></div></article><article class="package "><div class="package-image"><img src="images/diamond.webp?v=4a89984d4f" alt="تركيب فيلم حماية على هيكل نيسان باترول" width="1536" height="1024" loading="lazy"><span class="badge vip">VIP</span><span class="package-number">04</span></div><div class="package-body"><p class="package-label">باقة الماسية</p><h3><bdi>7,500</bdi> <span>ر.س</span></h3><div class="rule"></div><ul><li><svg width="13" height="13" class="icon icon-check " viewBox="0 0 24 24" fill="none" stroke="currentColor" stroke-width="1.6" stroke-linecap="round" stroke-linejoin="round" aria-hidden="true" focusable="false"><path d="m5 12 4 4L19 6"/></svg>حماية كامل السيارة</li><li><svg width="13" height="13" class="icon icon-check " viewBox="0 0 24 24" fill="none" stroke="currentColor" stroke-width="1.6" stroke-linecap="round" stroke-linejoin="round" aria-hidden="true" focusable="false"><path d="m5 12 4 4L19 6"/></svg>عازل حراري</li><li><svg width="13" height="13" class="icon icon-check " viewBox="0 0 24 24" fill="none" stroke="currentColor" stroke-width="1.6" stroke-linecap="round" stroke-linejoin="round" aria-hidden="true" focusable="false"><path d="m5 12 4 4L19 6"/></svg>نانو جنوط / تشميع كفرات</li><li><svg width="13" height="13" class="icon icon-check " viewBox="0 0 24 24" fill="none" stroke="currentColor" stroke-width="1.6" stroke-linecap="round" stroke-linejoin="round" aria-hidden="true" focusable="false"><path d="m5 12 4 4L19 6"/></svg>حماية داخلية</li></ul><a class="button outline" href="https://wa.me/966543229006?text=%D9%85%D8%B1%D8%AD%D8%A8%D9%8B%D8%A7%20%D8%A3%D9%88%D8%AA%D9%88%20%D9%85%D8%A7%D8%A8%D8%8C%20%D8%A3%D8%B1%D8%BA%D8%A8%20%D9%81%D9%8A%20%D8%AD%D8%AC%D8%B2%20%D8%A7%D9%84%D8%A8%D8%A7%D9%82%D8%A9%20%D8%A7%D9%84%D9%85%D8%A7%D8%B3%D9%8A%D8%A9%20%D8%A8%D8%B3%D8%B9%D8%B1%207%2C500%20%D8%B1.%D8%B3%D8%8C%20%D9%88%D9%85%D8%B9%D8%B1%D9%81%D8%A9%20%D8%A7%D9%84%D9%81%D8%B1%D8%B9%20%D8%A7%D9%84%D9%85%D9%86%D8%A7%D8%B3%D8%A8." target="_blank" rel="noopener noreferrer">احجز الآن <svg width="19" height="19" fill="currentColor" class="icon icon-whatsapp" viewBox="0 0 24 24" aria-hidden="true"><path d="M20.4 3.6A11.8 11.8 0 0 0 1.9 17.8L.3 23.7l6-1.6A11.8 11.8 0 0 0 20.4 3.6ZM12 21a9.1 9.1 0 0 1-4.7-1.3l-.3-.2-3.6 1 1-3.5-.2-.4A9.2 9.2 0 1 1 12 21Zm5.1-6.9c-.3-.2-1.7-.8-1.9-.9-.3-.1-.5-.2-.7.2l-.9 1c-.2.2-.3.2-.6.1a7.6 7.6 0 0 1-3.7-3.2c-.3-.5.3-.5.8-1.5.1-.2 0-.4 0-.5l-.9-2.1c-.2-.5-.4-.4-.6-.4h-.5c-.2 0-.5.1-.7.3-.8.8-1.2 1.7-.9 2.8.5 2.5 4.4 6.2 7.1 6.9 1 .3 2.1.2 2.9-.5.4-.4.6-1.2.6-1.6 0-.2-.2-.3-.5-.4Z"/></svg></a></div></article></div></div></section></main>
 <footer><div class="container footer-top"><a href="#home" aria-label="أوتو ماب — الرئيسية"><span class="logo"><img src="images/automap-logo.jpeg" alt="AUTOMAP — أوتو ماب" width="1320" height="439"></span></a><p>العناية الاحترافية بسيارتك.</p><nav aria-label="روابط سريعة"><a href="#branches">فروعنا</a><a href="#packages">الباقات</a><a href="https://wa.me/966543229006" target="_blank" rel="noopener noreferrer">واتساب</a></nav></div><div class="container footer-bottom"><span>© <span id="year">2026</span> AUTOMAP. جميع الحقوق محفوظة.</span><span>نسخة معاينة للعرض</span></div></footer>
 <a class="floating-wa" href="https://wa.me/966543229006" target="_blank" rel="noopener noreferrer" aria-label="تواصل مع أوتو ماب عبر واتساب"><svg width="19" height="19" viewBox="0 0 24 24" aria-hidden="true"><path d="M20.4 3.6A11.8 11.8 0 0 0 1.9 17.8L.3 23.7l6-1.6A11.8 11.8 0 0 0 20.4 3.6ZM12 21a9.1 9.1 0 0 1-4.7-1.3l-.3-.2-3.6 1 1-3.5-.2-.4A9.2 9.2 0 1 1 12 21Zm5.1-6.9c-.3-.2-1.7-.8-1.9-.9-.3-.1-.5-.2-.7.2l-.9 1c-.2.2-.3.2-.6.1a7.6 7.6 0 0 1-3.7-3.2c-.3-.5.3-.5.8-1.5.1-.2 0-.4 0-.5l-.9-2.1c-.2-.5-.4-.4-.6-.4h-.5c-.2 0-.5.1-.7.3-.8.8-1.2 1.7-.9 2.8.5 2.5 4.4 6.2 7.1 6.9 1 .3 2.1.2 2.9-.5.4-.4.6-1.2.6-1.6 0-.2-.2-.3-.5-.4Z"/></svg><span>واتساب</span></a></body></html>

diff --git a/style.css b/style.css
@@ -1038,3 +1038,6 @@ h2 {
 
 /* Preserve the service activity in the documentary hero image. */
 .hero-visual > img { object-fit: contain; }
+
+/* Keep service details and wall branding visible on every screen size. */
+.package-image { aspect-ratio: 3 / 2; }

diff --git a/README.md b/README.md
@@ -20,6 +20,8 @@ Shared prompt: authentic documentary-style 3:2 automotive workshop photography; 
 - Gold: silver Toyota Land Cruiser 300; technician fits a clear PPF sheet across the entire hood, with front fender and bumper visible.
 - Diamond: white Nissan Patrol Y62; technician fits PPF to a closed passenger door, with a nearby protective film roll, representing full-body protection.
 
+The approved service images were then edited with the supplied AUTOMAP logo reference: matte charcoal wall signage with the exact logo, a restrained gold `#CBA945` wall stripe or tool trolley trim, with vehicle geometry, service activity and neutral lighting preserved. Package images retain a 3:2 aspect ratio at all screen widths.
+
 Each image and the stylesheet use a content hash in their URLs to avoid mixing cached and updated assets. Every SVG also has intrinsic dimensions.
 
 Prices and branch contacts are supplied by the client. Diamond feature corrected to «نانو جنوط» based on the uploaded banner. «الأكثر طلبًا» is a proposed preview badge, subject to client confirmation.
